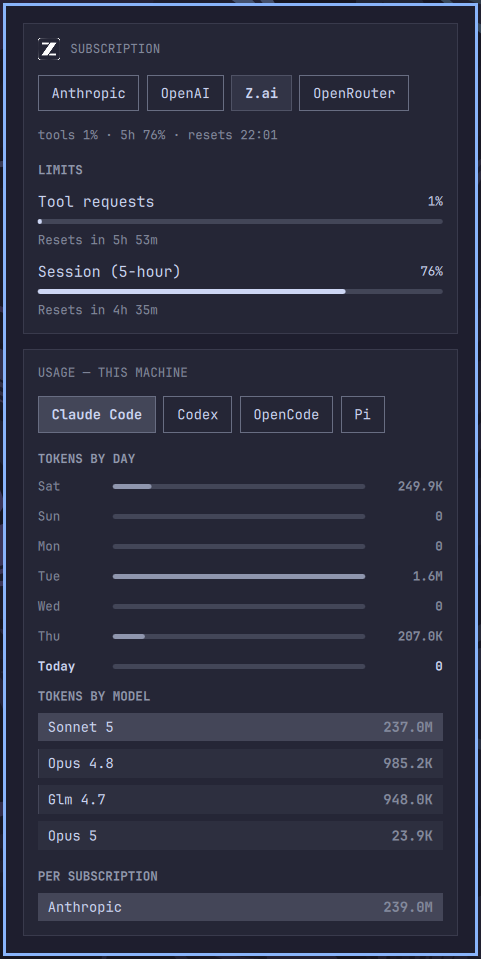
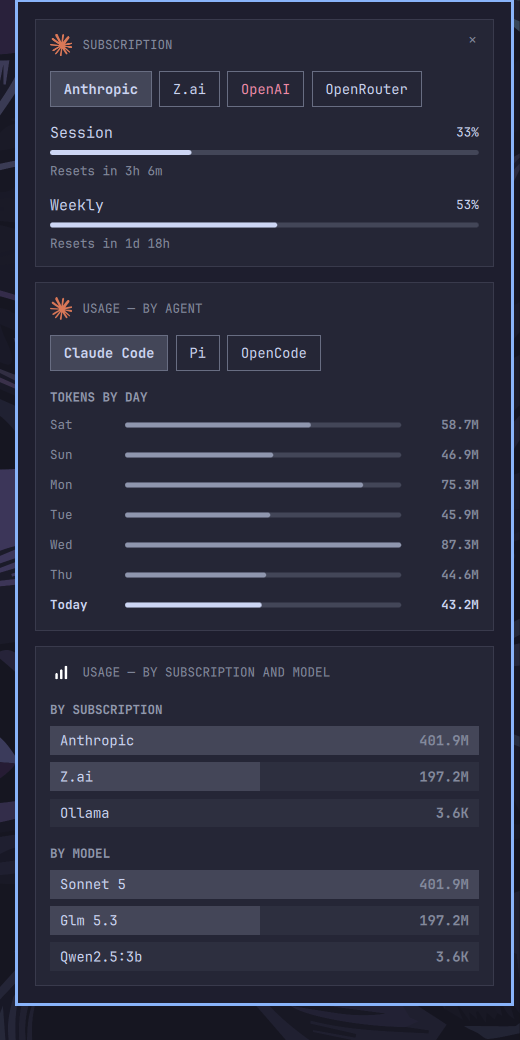
Screenshot: refresh for the three-card layout (randomized data)

Changed region(s): [[0.0, 0.0, 1.0, 0.9979]]

diff --git a/README.md b/README.md
@@ -10,8 +10,11 @@ panel does not show. When installed it replaces the stock widget on the bar.
 
 ![Agents Monitor panel](screenshots/panel.png)
 
-*The panel with the Z.ai subscription selected (quota meters) and the
-Claude Code agent below (day/model charts, per-subscription attribution).*
+*The three-card layout: SUBSCRIPTION (Anthropic selected, level and reset
+countdown only), USAGE — BY AGENT (Claude Code selected, the last 7 days),
+and USAGE — BY SUBSCRIPTION AND MODEL (cumulative across every tool).
+Numbers are randomized for this screenshot — the layout and features are
+real.*
 
 
 ## What it adds over stock
